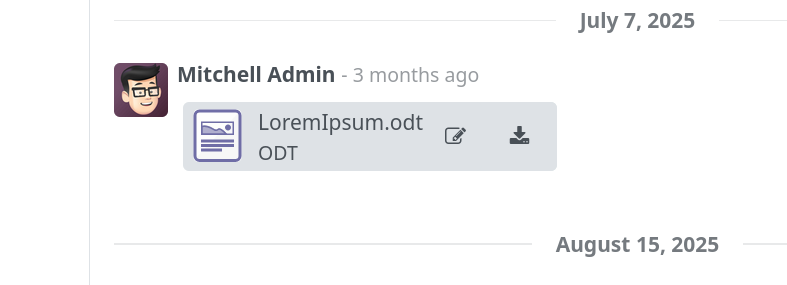
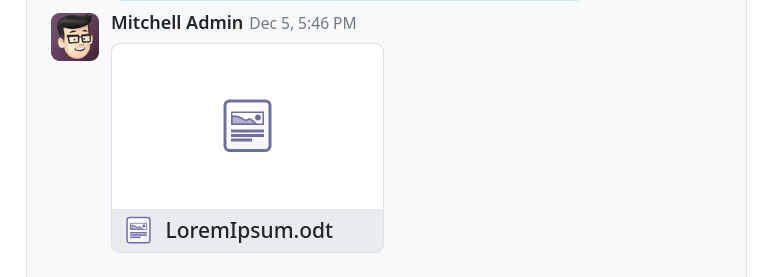
[odoo-19] Update screenshots for Odoo 19

diff --git a/README.md b/README.md
@@ -53,6 +53,10 @@ A document attached to a discussion. This can be any attachment anywhere.
 
 ![Attachment](./static/description/images/cool_attachment.png)
 
+Hover with the mouse you can see the action buttons.
+
+![Attachment hover](./static/description/images/cool_attachment_hover.png)
+
 The document being edited.
 
 ![Document editing](./static/description/images/cool_edit_screenshot.png)
